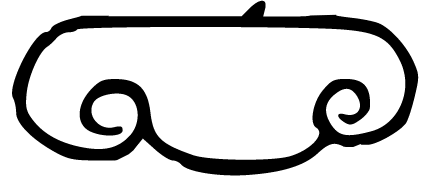
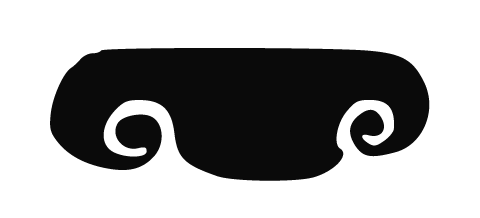
añadido columnas

diff --git a/app/page.js b/app/page.js
@@ -94,7 +94,7 @@ const Home = () => {
       <div className="mb-[15vh]"></div>
 
 
-      <div className="w-screen relative flex flex-col items-center justify-center pt-20">
+      <div className="w-screen relative flex flex-col items-center justify-center">
         {/* Imagen decorativa */}
         <div className="relative w-full h-[46.5vw] flex justify-center">
           { /* Imagen decorativa como fondo */}
@@ -103,8 +103,12 @@ const Home = () => {
               src="/img/ui/moria_door_top.png"
               alt="Banner"
               fill
-              className="object-contain w-full h-full drop-shadow-[0_0_20px_rgba(0,200,255,0.8)]"
-              style={{ filter: "brightness(0) invert(1)" }}
+              className="object-contain w-full h-full"
+              style={{ 
+                filter: "brightness(0) invert(1) drop-shadow(0 0 15px rgba(100, 200, 255, 0.8))",
+                mixBlendMode: "screen",
+                opacity: "0.9"
+              }}
             />
           </div>
 
@@ -143,25 +147,29 @@ const Home = () => {
 
       <div className="relative">
 
-        <div className="absolute -top-[.9vw] -left-[2.5vw] w-[20vw] bg-[#0a0a0a] rounded-[3rem]">
+        <div className="absolute -top-[1.9vw] -left-[3vw] w-[23vw] z-10 rounded-[3rem]">
           <Image
             src="/img/ui/moria_door_left.png"
             alt="Banner"
             width={500}
             height={0}
-            className="w-full h-auto drop-shadow-[0_0_20px_rgba(0,200,255,0.8)]"
-            style={{ filter: "brightness(0) invert(1)" }}
+            className="w-full h-auto"
+            style={{ 
+              filter: "drop-shadow(0 0 10px rgba(100, 200, 255, 0.9))",
+            }}
           />
         </div>
 
-        <div className="absolute -top-[.9vw] -right-[3vw] w-[20vw] bg-[#0a0a0a] rounded-[4rem]">
+        <div className="absolute -top-[1.8vw] -right-[4vw] w-[23vw] z-10 rounded-[4rem]">
           <Image
             src="/img/ui/moria_door_right.png"
             alt="Banner"
             width={500}
             height={0}
-            className="object-contain w-full h-full drop-shadow-[0_0_20px_rgba(0,200,255,0.8)]"
-            style={{ filter: "brightness(0) invert(1)" }}
+            className="object-contain w-full h-full"
+            style={{ 
+              filter: "drop-shadow(0 0 10px rgba(100, 200, 255, 0.9))",
+            }}
           />
         </div>
 
@@ -169,7 +177,7 @@ const Home = () => {
           data={data}
           index={0}
           h={16}
-          w={60}
+          w={80}
           order={"flex mb-5"}
         />
 
@@ -181,25 +189,29 @@ const Home = () => {
           img_bg="valar.webp"
         />
 
-        <div className="absolute bottom-0 left-[1.1vw] w-[14vw] bg-[#0a0a0a]">
+        <div className="absolute bottom-0 -left-[.8vw] w-[18vw]">
           <Image
             src="/img/ui/moria_door_bottom_left.png"
             alt="Banner"
             width={500}
             height={0}
-            className="w-full h-auto drop-shadow-[0_0_20px_rgba(0,200,255,0.8)]"
-            style={{ filter: "brightness(0) invert(1)" }}
+            className="w-full h-auto"
+            style={{ 
+              filter: "drop-shadow(0 0 10px rgba(100, 200, 255, 0.9))",
+            }}
           />
         </div>
 
-        <div className="absolute bottom-0 -right-[.4vw] w-[14.3vw] bg-[#0a0a0a]">
+        <div className="absolute bottom-0 -right-[3.2vw] w-[19vw]">
           <Image
             src="/img/ui/moria_door_bottom_right.png"
             alt="Banner"
             width={500}
             height={0}
-            className="w-full h-auto drop-shadow-[0_0_20px_rgba(0,200,255,0.8)]"
-            style={{ filter: "brightness(0) invert(1)" }}
+            className="w-full h-auto"
+            style={{ 
+              filter: "drop-shadow(0 0 10px rgba(100, 200, 255, 0.9))",
+            }}
           />
         </div>
       </div>
@@ -216,6 +228,8 @@ const Home = () => {
         />
       </div>
 
+
+      <div className="mb-50"></div>
       <Foot />
 
     </div>

diff --git a/app/sections/RacesSection.js b/app/sections/RacesSection.js
@@ -1,32 +1,54 @@
 import { AnimatedButton } from "../ui/AnimatedButton"
 
-export const RacesSection = ({data, index , img_bg ="illuvatar.jpg", h ,w , order="grid grid-cols-3 gap-y-5"}) => {
-    return(
+export const RacesSection = ({ data, index, img_bg = "illuvatar.jpg", h, w, order = "grid grid-cols-3 gap-y-5" }) => {
+    return (
         <div className="flex justify-between">
-            <div className="border-x-4 ml-[2vw] mr-[1vw] border-white w-[12vw]"></div>
-            <div 
+            <div className="flex justify-between overflow-hidden">
+                <div
+                    className="border-x-[5px] ml-[2vw] mr-[1vw] border-white w-[12vw]"
+                    style={{
+                        boxShadow: `
+                        -10px 0 10px -5px rgba(100, 200, 255, 0.8), /* Brillo izquierdo */
+                        10px 0 10px -5px rgba(100, 200, 255, 0.8)   /* Brillo derecho */
+                        `,
+                        position: "relative", // Necesario para el pseudo-elemento
+                    }}
+                ></div>
+            </div>
+            <div
                 className={`${order} justify-center bg-cover py-5 w-[70vw] mx-[1vw] rounded-lg`}
                 style={{
                     backgroundImage: `url(/img/backgrounds/${img_bg})`
                 }}
-                >
-                {data.lotr_info[index].map((lotr,i) => {
-                    return(
+            >
+                {data.lotr_info[index].map((lotr, i) => {
+                    return (
                         <AnimatedButton
-                        key={i}
-                        id={lotr.race + i.toString()}
-                        name={lotr.nombre} 
-                        wiki={lotr.link}
-                        info={lotr.info}
-                        img={lotr.img}
-                        color_bg={lotr.color_bg}
-                        h={h}
-                        w={w}
+                            key={i}
+                            id={lotr.race + i.toString()}
+                            name={lotr.nombre}
+                            wiki={lotr.link}
+                            info={lotr.info}
+                            img={lotr.img}
+                            color_bg={lotr.color_bg}
+                            h={h}
+                            w={w}
                         />
                     )
                 })}
-            </div> 
-            <div className="border-x-4 mr-[1vw] ml-[1vw] border-white w-[12vw]"></div>
+            </div>
+            <div className="flex justify-between overflow-hidden">
+                <div
+                    className="border-x-[5px] ml-[2vw] mr-[1vw] border-white w-[12vw]"
+                    style={{
+                        boxShadow: `
+                            -10px 0 10px -5px rgba(100, 200, 255, 0.8), /* Brillo izquierdo */
+                            10px 0 10px -5px rgba(100, 200, 255, 0.8)   /* Brillo derecho */
+                            `,
+                        position: "relative", // Necesario para el pseudo-elemento
+                    }}
+                ></div>
+            </div>
         </div>
 
     )

diff --git a/app/ui/AnimatedButton.js b/app/ui/AnimatedButton.js
@@ -14,6 +14,9 @@ export const AnimatedButton = ({ id, name, wiki, info, img, color_bg, h, w }) =>
   const togglePopup = (type) => {
     setPopup((prev) => (prev === type ? null : type));
   };
+  
+  const hei = h*0.25
+  const wid = w*0.25
 
   return (
     <div 
@@ -31,9 +34,18 @@ export const AnimatedButton = ({ id, name, wiki, info, img, color_bg, h, w }) =>
       }}
     >
       <button
-        className={`h-${h} w-${w} border-none rounded-[40px] cursor-pointer group relative`}
+        className={`border-none rounded-[40px] w-60 cursor-pointer group relative`}
+        style={{
+          height: `${hei}rem`,
+          width: `${wid}rem`
+        }}
       >
-        <span className={`z-10 capitalize inline-block ${color_bg} h-${h} w-${w} rounded-[25px] text-black leading-[60px] text-lg tracking-widest transition-all duration-500 group-hover:w-0 group-hover:opacity-0`}>
+        <span className={`z-10 capitalize inline-block ${color_bg} rounded-[25px] text-black leading-[60px] text-lg tracking-widest transition-all duration-500 group-hover:!w-0 group-hover:opacity-0`}
+          style={{
+            height: `${hei}rem`,
+            width: `${wid}rem`
+          }}
+        >
           {visibleName}
         </span>
 
